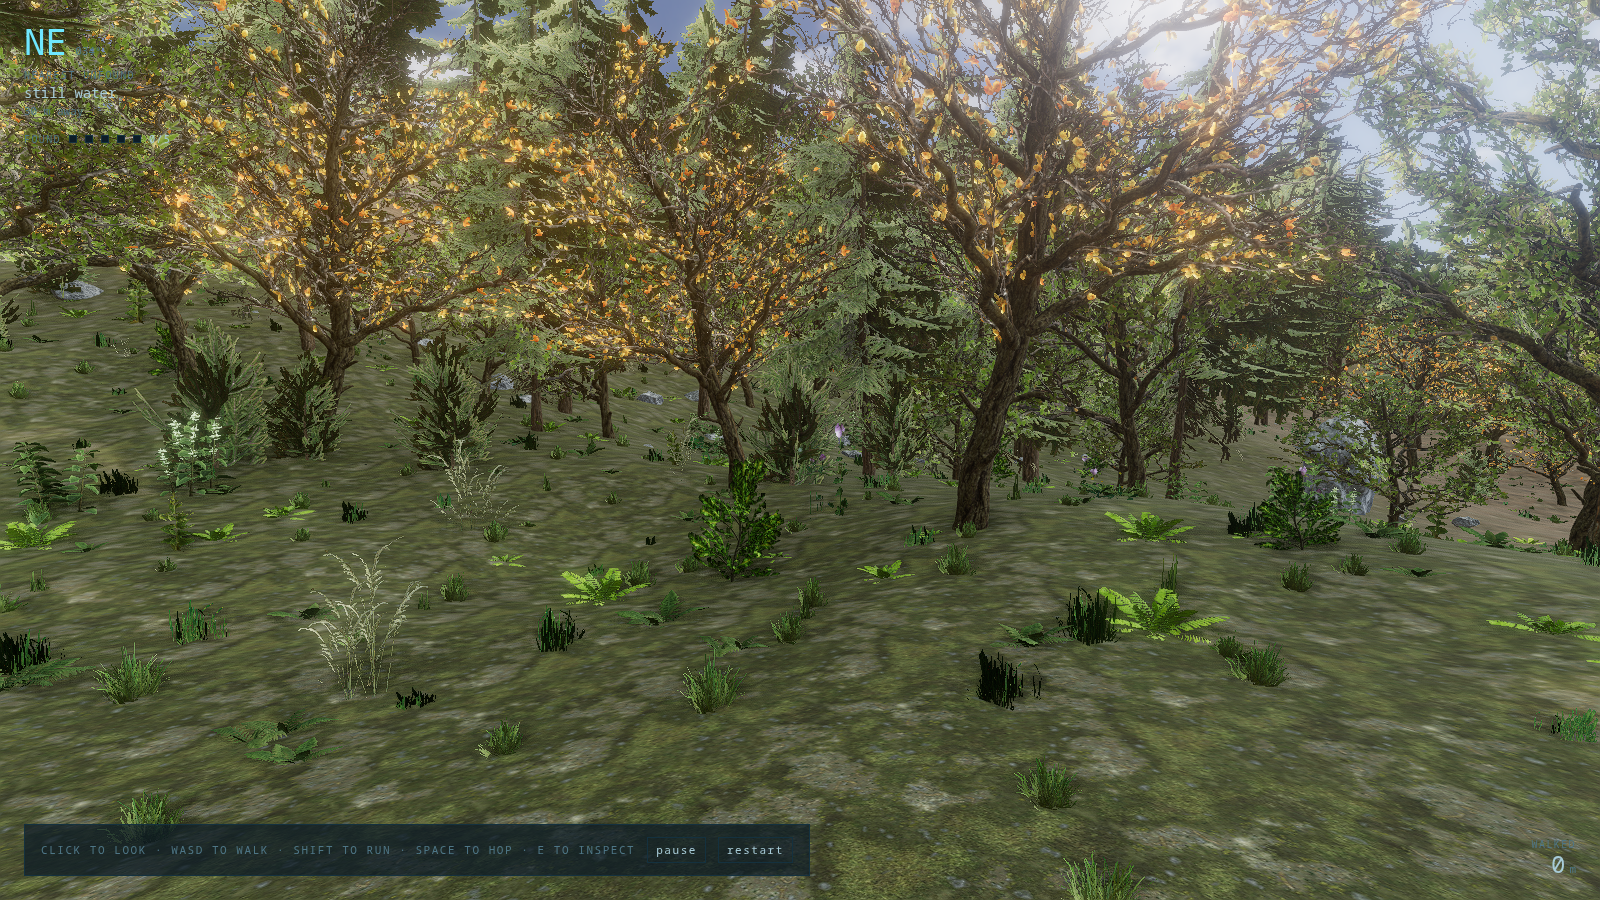
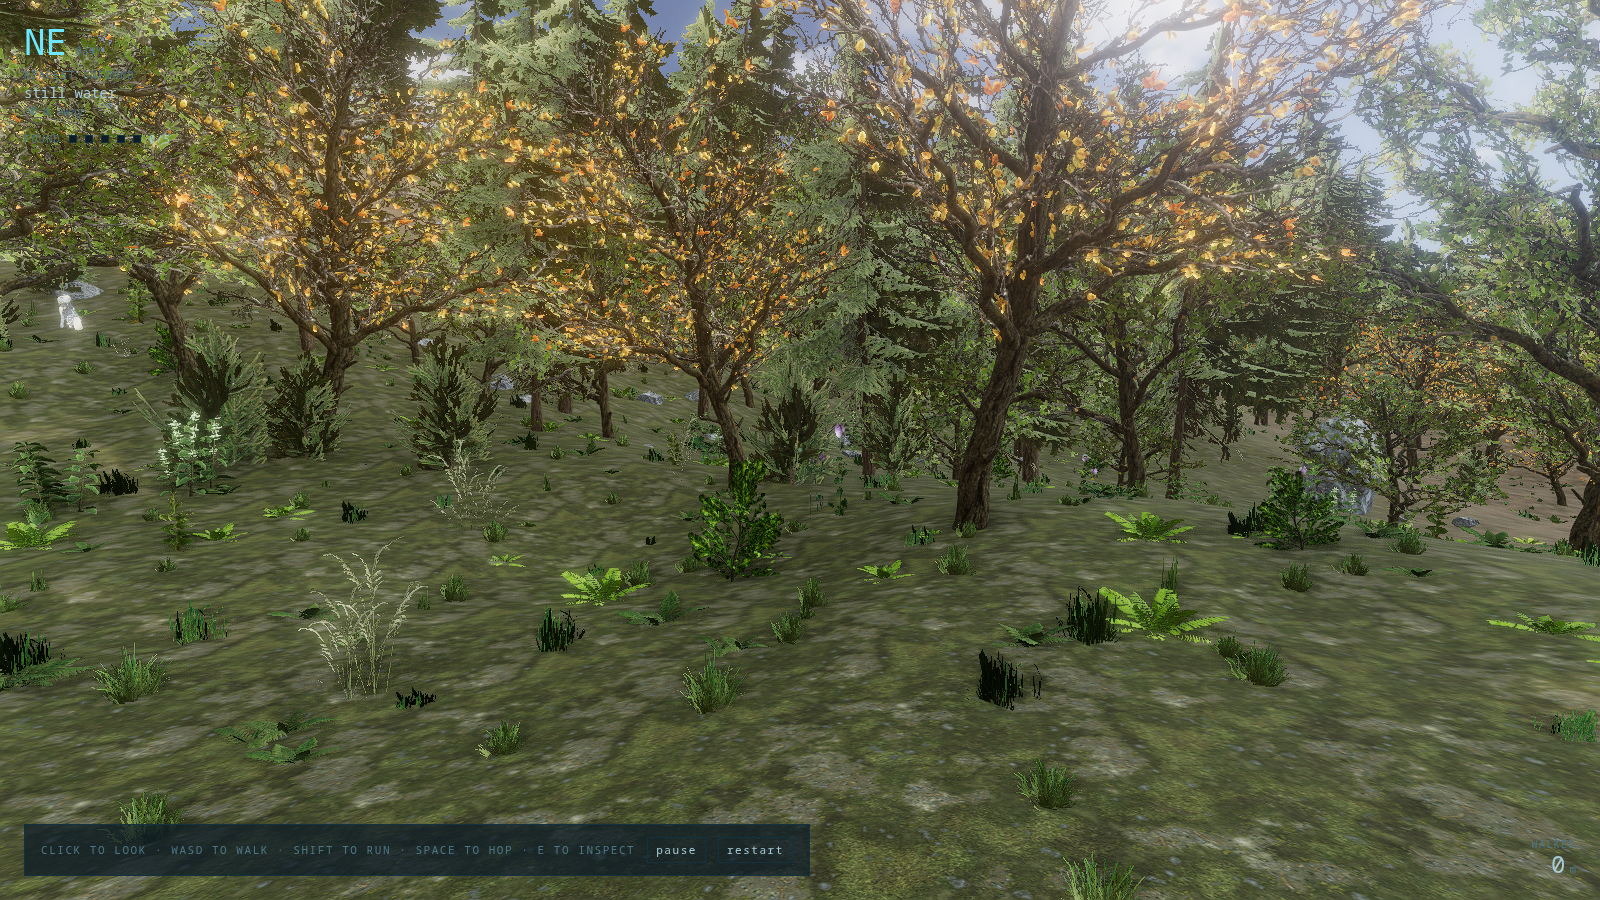
feat(wildwood): the wood is inhabited by the real pack
The PROTOFACTOR Animal Variety Pack replaces the Quaternius stand-ins: six
rigged species (fox, wolf, red stag, doe, pig, crow) imported straight from
the uncooked UE4 packages with their own ActorX clips bound — 20 fox clips,
21 wolf, 18 stag, 17 doe, 18 pig, 15 crow — textures embedded, optimised to
16 MiB total. The importer's new uncooked-skeletal path (v510-514
FStaticLODModel, umodel-convention GLB) is what made this possible; the
existing AI state machine drives them unchanged, remapped onto the pack's
clip names. Scales arrive in real metres: span 1.05-2.07, scale ~1.0.

diff --git a/wildwood/src/entities/animals/animalSpecs.ts b/wildwood/src/entities/animals/animalSpecs.ts
@@ -3,9 +3,15 @@
  *
  * Every number here is a look or a feel decision, so it lives in the game and not in any shared
  * helper: the entity machinery (`Animal.ts`) reads a spec and would run a dragon or a duck
- * unchanged. Sizes are real-world, because the GLBs arrive at wildly different scales (the fox
- * is authored nearly six units long) and normalising by the model's own bounds is what keeps a
- * fox smaller than a stag without anyone hand-tuning per-file scale factors.
+ * unchanged. Sizes are real-world, because the GLBs arrive at wildly different scales and
+ * normalising by the model's own world-space bounds is what keeps a fox smaller than a stag
+ * without anyone hand-tuning per-file scale factors. `length` is the full nose-to-tail-tip
+ * extent, which is what the world-space span measures — a body-only number normalises the
+ * animal to half size.
+ *
+ * These are the PROTOFACTOR Animal Variety Pack rigs (Fab 2dd7964c), imported with their own
+ * ActorX clips; the clip names below are the pack's, and `Animal` audits at load that each one
+ * actually binds.
  */
 
 /** The clips an animal's state machine needs, named by what they mean, not what they are called. */
@@ -24,34 +30,84 @@ export interface AnimalClipMap {
   readonly jump: string;
 }
 
-const CANINE_CLIPS: AnimalClipMap = {
-  idle: "Idle",
-  idleAlt: "Idle_2",
-  alert: "Idle_2_HeadLow",
-  graze: "Eating",
-  walk: "Walk",
-  run: "Gallop",
-  attack: "Attack",
-  die: "Death",
-  hitReact: "Idle_HitReact_Left",
-  jump: "Jump_ToIdle",
+/**
+ * Clip names exactly as the importer wrote them: the ActorX package name, `ANIM_<Animal>_` prefix
+ * and all. The state machine loops idle/graze/walk/run; the one-shot clips play through. WOLF
+ * spreads FOX and DOE spreads STAG — same rig family, same clip tails, different prefix.
+ */
+const FOX_CLIPS: AnimalClipMap = {
+  idle: "ANIM_Fox_IdleBreathe",
+  idleAlt: "ANIM_Fox_IdleLookAround",
+  alert: "ANIM_Fox_IdleAggressive",
+  graze: "ANIM_Fox_IdleLookAround",
+  walk: "ANIM_Fox_Walk",
+  run: "ANIM_Fox_Run",
+  attack: "ANIM_Fox_Bite",
+  die: "ANIM_Fox_Death",
+  hitReact: "ANIM_Fox_GetHitFront",
+  jump: "ANIM_Fox_JumpBite",
 };
 
-/** The deer share a rig and a clip list, differing from the canines in two names. */
-const DEER_CLIPS: AnimalClipMap = {
-  ...CANINE_CLIPS,
-  alert: "Idle_Headlow",
-  attack: "Attack_Headbutt",
-  jump: "Jump_toIdle",
+const WOLF_CLIPS: AnimalClipMap = {
+  ...FOX_CLIPS,
+  graze: "ANIM_Wolf_Howl",
+  hitReact: "ANIM_Wolf_GetHitLeft",
+  jump: "ANIM_Wolf_JumpBite",
+};
+
+const STAG_CLIPS: AnimalClipMap = {
+  idle: "ANIM_DeerStag_IdleBreathe",
+  idleAlt: "ANIM_DeerStag_IdleLookAround",
+  alert: "ANIM_DeerStag_IdleLookAround",
+  graze: "ANIM_DeerStag_IdleGraze",
+  walk: "ANIM_DeerStag_Walk",
+  run: "ANIM_DeerStag_Run",
+  attack: "ANIM_DeerStag_AntlersAttack",
+  die: "ANIM_DeerStag_Death",
+  hitReact: "ANIM_DeerStag_GetHit",
+  jump: "ANIM_DeerStag_AntlersComboAttack",
+};
+
+const DOE_CLIPS: AnimalClipMap = {
+  ...STAG_CLIPS,
+  attack: "ANIM_DeerDoe_GrazeOnce",
+  jump: "ANIM_DeerDoe_WalkGraze",
+};
+
+const PIG_CLIPS: AnimalClipMap = {
+  idle: "ANIM_Pig_IdleBreathe",
+  idleAlt: "ANIM_Pig_IdleLookAround",
+  alert: "ANIM_Pig_IdleLookAround",
+  graze: "ANIM_Pig_Chew",
+  walk: "ANIM_Pig_Walk",
+  run: "ANIM_Pig_Run",
+  attack: "ANIM_Pig_attack",
+  die: "ANIM_Pig_Death",
+  hitReact: "ANIM_Pig_GetHit",
+  jump: "ANIM_Pig_JumpAttack",
+};
+
+const CROW_CLIPS: AnimalClipMap = {
+  idle: "ANIM_Crow_IdleLookAround",
+  idleAlt: "ANIM_Crow_IdleScratchWing",
+  alert: "ANIM_Crow_IdleLookAround",
+  graze: "ANIM_Crow_EatSomething",
+  walk: "ANIM_Crow_Walk",
+  run: "ANIM_Crow_Hop",
+  attack: "ANIM_Crow_FlyingAttack",
+  die: "ANIM_Crow_DeathGrounded",
+  hitReact: "ANIM_Crow_DeathHitTheGround",
+  jump: "ANIM_Crow_TakeOff",
 };
 
 export interface AnimalSpec {
-  /** Stable id, also the GLB file stem. */
+  /** Stable id used by placements, the HUD, and the DOM. */
   readonly id: string;
+  /** The GLB file stem in the pack's import output (`SK_Fox`, not the species id). */
+  readonly glb: string;
   readonly label: string;
   /**
-   * Nose-to-tail body length in metres; the loaded model is normalised to this. The brief's
-   * stag is "1.5 m at the head", which a red deer stag of ~1.9 m body length stands to.
+   * Full nose-to-tail body length in metres; the loaded model is normalised to this.
    */
   readonly length: number;
   readonly clips: AnimalClipMap;
@@ -72,9 +128,10 @@ export interface AnimalSpec {
 export const ANIMAL_SPECS: readonly AnimalSpec[] = [
   {
     id: "fox",
+    glb: "SK_Fox",
     label: "Fox",
     length: 1.05,
-    clips: CANINE_CLIPS,
+    clips: FOX_CLIPS,
     walkSpeed: 1.3,
     runSpeed: 8,
     fleeRadius: 7,
@@ -82,29 +139,21 @@ export const ANIMAL_SPECS: readonly AnimalSpec[] = [
   },
   {
     id: "wolf",
+    glb: "SK_Wolf",
     label: "Wolf",
     length: 1.55,
-    clips: CANINE_CLIPS,
+    clips: WOLF_CLIPS,
     walkSpeed: 1.5,
     runSpeed: 10,
     fleeRadius: 5,
     yawOffset: 0,
   },
   {
-    id: "husky",
-    label: "Husky",
-    length: 1.4,
-    clips: CANINE_CLIPS,
-    walkSpeed: 1.5,
-    runSpeed: 9,
-    fleeRadius: 4,
-    yawOffset: 0,
-  },
-  {
     id: "stag",
+    glb: "SK_DeerStag",
     label: "Stag",
-    length: 1.9,
-    clips: DEER_CLIPS,
+    length: 2.1,
+    clips: STAG_CLIPS,
     walkSpeed: 1.3,
     runSpeed: 12,
     fleeRadius: 10,
@@ -112,12 +161,35 @@ export const ANIMAL_SPECS: readonly AnimalSpec[] = [
   },
   {
     id: "doe",
+    glb: "SK_DeerDoe",
     label: "Doe",
-    length: 1.7,
-    clips: DEER_CLIPS,
+    length: 1.8,
+    clips: DOE_CLIPS,
     walkSpeed: 1.2,
     runSpeed: 11,
     fleeRadius: 11,
+    yawOffset: 0,
+  },
+  {
+    id: "pig",
+    glb: "SK_Pig",
+    label: "Pig",
+    length: 1.5,
+    clips: PIG_CLIPS,
+    walkSpeed: 1.1,
+    runSpeed: 7,
+    fleeRadius: 6,
+    yawOffset: 0,
+  },
+  {
+    id: "crow",
+    glb: "SK_Crow",
+    label: "Crow",
+    length: 0.5,
+    clips: CROW_CLIPS,
+    walkSpeed: 0.6,
+    runSpeed: 2.5,
+    fleeRadius: 5,
     yawOffset: 0,
   },
 ];

diff --git a/wildwood/src/scenes/Valley.ts b/wildwood/src/scenes/Valley.ts
@@ -161,15 +161,16 @@ export class Valley extends Scene<GameState, IPhysicsContext> {
     console.info("TN_ANIMALS_SPAWN_START");
     if (isWeb() && new URLSearchParams(window.location.search).has("noanimals") === false) {
     this.#animals = await spawnWildwoodAnimals({
-      load: (path) => ctx.assets.model(`fab/${ANIMAL_LISTING}/raw/${path}`),
+      load: (path) => ctx.assets.model(`fab/${ANIMAL_LISTING}/ue/Models/${path}`),
       ground: heightAt,
       parent: ctx.scene,
       placements: [
         { id: "fox", x: 28, z: 8 },
-        { id: "husky", x: 8, z: 18 },
         { id: "stag", x: 28, z: 2 },
         { id: "doe", x: 54, z: 2 },
         { id: "wolf", x: -6, z: -30 },
+        { id: "pig", x: 20, z: 36 },
+        { id: "crow", x: 14, z: 26 },
       ],
     });
     console.info(`TN_ANIMALS_LIVE:${String(this.#animals.animals.length)}`);

diff --git a/wildwood/src/entities/animals/spawnWildwoodAnimals.ts b/wildwood/src/entities/animals/spawnWildwoodAnimals.ts
@@ -69,9 +69,9 @@ export async function spawnWildwoodAnimals(options: ISpawnAnimalsOptions): Promi
     }
     let model = models.get(spec.id);
     if (model === undefined) {
-      model = await options.load(`${spec.id}.glb`);
+      model = await options.load(`${spec.glb}.glb`);
       models.set(spec.id, model);
-      log(`[animals] loaded ${spec.id}.glb with ${model.animations.length} clips`);
+      log(`[animals] loaded ${spec.glb}.glb with ${model.animations.length} clips`);
     }
     const animal = new Animal(spec, model, {
       ground: options.ground,
